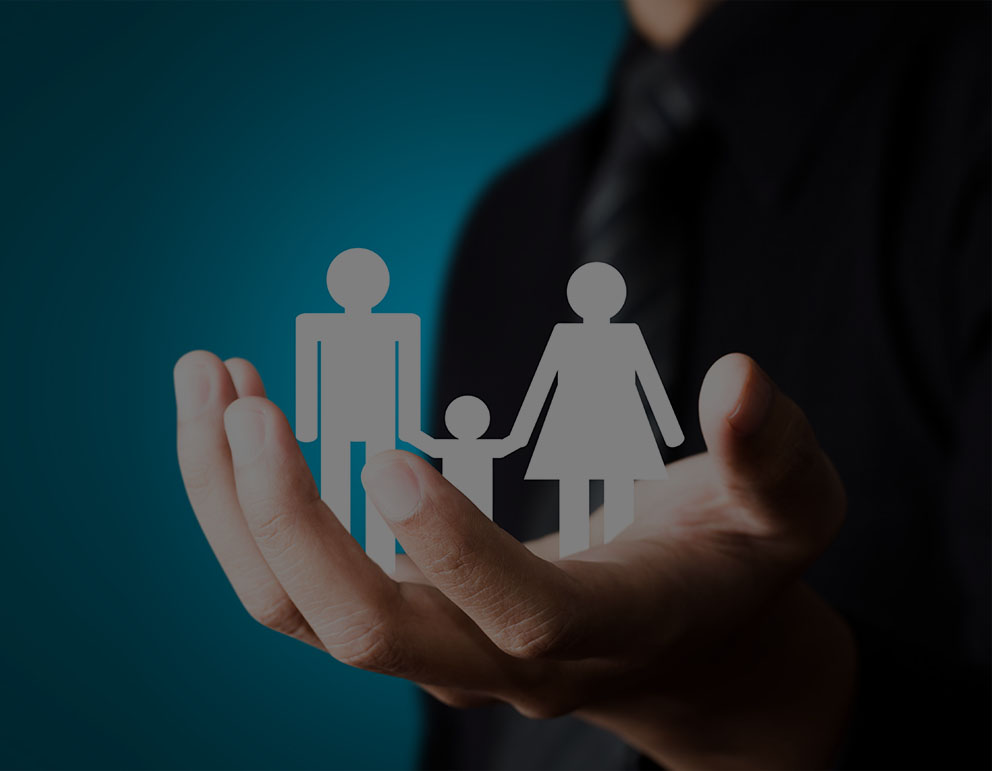
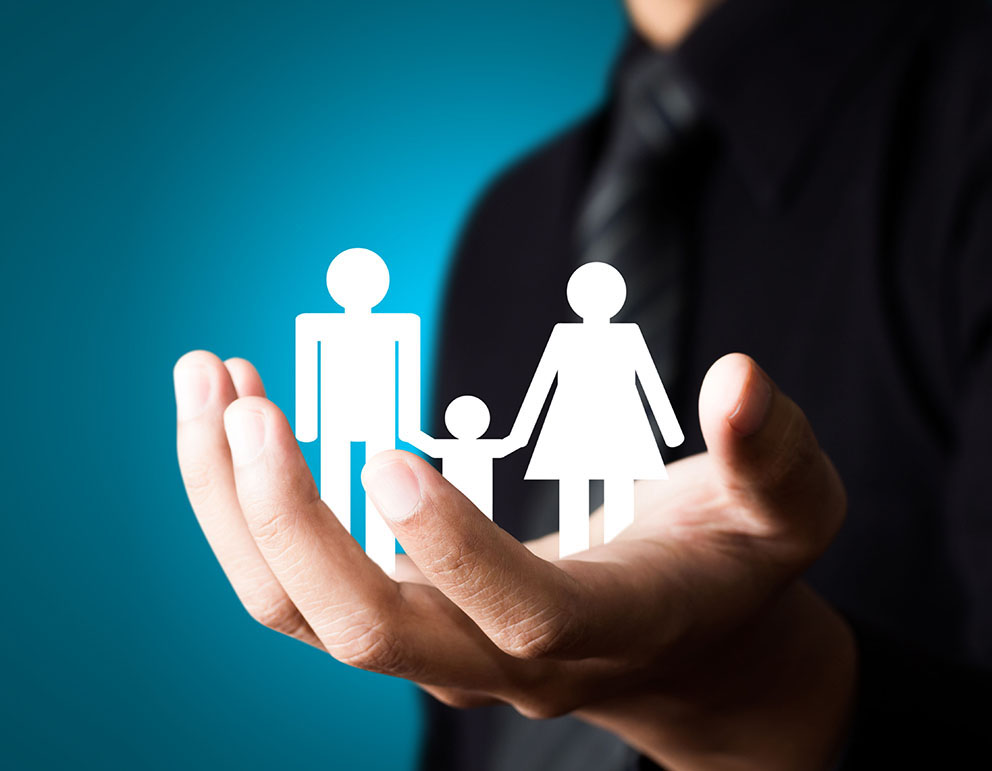
bg overlay was added

diff --git a/src/template/second-header.html b/src/template/second-header.html
@@ -1,6 +1,6 @@
 <!--Заставка с текстом-->
 <header class="family safari">
-
+    <div class="overlay"></div>
     <div class="container-fluid">
         <!-- блок навигации и контакты-->
         <div class="row">
@@ -27,9 +27,12 @@
                 <div class="col-xs-6">
                     <div class="header-info-right text-right">
                         <div class="contacts">
-                            <div class="geo-wraper"><a href="https://www.google.com.ua/maps/place/635+00+Brno-Bystrc,+%D0%A7%D0%B5%D1%85%D0%B8%D1%8F/@49.2429648,16.4138714,12z/data=!3m1!4b1!4m5!3m4!1s0x4712974da069fdff:0x500af0f6614cd60!8m2!3d49.228787!4d16.5260415"><img class='geo' src="img/geo-marker.png"
-                                                               title="Brno-Bystrc"
-                                                             alt="местоположение"/></a></div>+420 728 501 660<br>
+                            <div class="geo-wraper">
+                                <a href="https://www.google.com.ua/maps/place/635+00+Brno-Bystrc,+%D0%A7%D0%B5%D1%85%D0%B8%D1%8F/@49.2429648,16.4138714,12z/data=!3m1!4b1!4m5!3m4!1s0x4712974da069fdff:0x500af0f6614cd60!8m2!3d49.228787!4d16.5260415"><img class='geo' src="img/geo-marker.png"
+                                                                                                                                                                                                                                                            title="Brno-Bystrc"
+                                                                                                                                                                                                                                                            alt="местоположение"/></a>
+                            </div>
+                            +420 728 501 660<br>
                             alexej.polak@gmail.com
                         </div>
                     </div>

diff --git a/src/css/partials/_header.scss b/src/css/partials/_header.scss
@@ -1,7 +1,9 @@
 .family{
+  position:relative;
   background-image:url(../img/insurances-xs.JPG);
   background-position:center;
   background-size:cover;
+  z-index:1;
   @media (min-width:$screen-sm-min) {
     background-image:linear-gradient(to left, white 0%, transparent 70%), url(../img/family-sm.jpg);
     min-height:$background-height-large;
@@ -14,6 +16,11 @@
     height:$background-height-large;
   }
 }
+.header-info{
+  position:relative;
+  z-index:10;
+}
+
 .list{
   li{
     text-align:left;
@@ -63,7 +70,10 @@
     margin:$margin 0 $margin-bottom/1.5 0;
   }
 }
-
+.splash{
+  position:relative;
+  z-index:10;
+}
 .wrap{
   padding:15% 33%;
 }

diff --git a/src/css/partials/_footer.scss b/src/css/partials/_footer.scss
@@ -1,11 +1,12 @@
 .collage{
+  position:relative;
   background-image:url(../img/collage-xs-sm.jpg);
   color:$primary-color;
   height:$background-height-base;
   min-width:368px;
-  padding:$padding-large;
   background-position:bottom;
   background-size:cover;
+  z-index:1;
   @media (min-width:$screen-md-min) {
     background-image:url(../img/collage.jpg);
     height:$background-height-large;
@@ -14,8 +15,10 @@
 }
 .info{
   background-color:$background-color-rgba;
-  margin-top:10px;
+  margin:15px 0;
   padding:$padding-large;
+  position:relative;
+  z-index:10;
   @media (max-width:$screen-sm-min) {
     text-align:center;
   }

diff --git a/src/css/partials/_global.scss b/src/css/partials/_global.scss
@@ -15,6 +15,7 @@ body{
   font-weight:$font-wight;
   line-height:$line-height;
   max-width:1600px;
+  min-width:400px;
   margin:0 auto;
 }
 .clear{
@@ -38,6 +39,18 @@ h4{
 }
 .wide{
   letter-spacing:1px;
+}
+
+.overlay{
+  content:'';
+  position:absolute;
+  width:100%;
+  height:100%;
+  background:rgba(0, 0, 0, 0.5);
+  z-index:5;
+  @media (min-width:$screen-sm-min) {
+    display:none;
+  }
 }
 
 

diff --git a/src/template/header.html b/src/template/header.html
@@ -1,6 +1,6 @@
 <!--Заставка с текстом-->
 <header class="family safari">
-
+    <div class="overlay"></div>
     <div class="container-fluid">
         <!-- блок навигации и контакты-->
         <div class="row">
@@ -71,4 +71,3 @@
     </div>
 </header>
 <!--конец заставки с текстом-->
-

diff --git a/src/template/footer.html b/src/template/footer.html
@@ -1,4 +1,5 @@
 <footer class="collage">
+    <div class="overlay"></div>
     <div class="container-fluid">
         <div class="row">
             <div

diff --git a/src/template/second-footer.html b/src/template/second-footer.html
@@ -1,4 +1,5 @@
 <footer class="collage">
+    <div class="overlay"></div>
     <div class="container-fluid">
         <div class="row">
             <div
